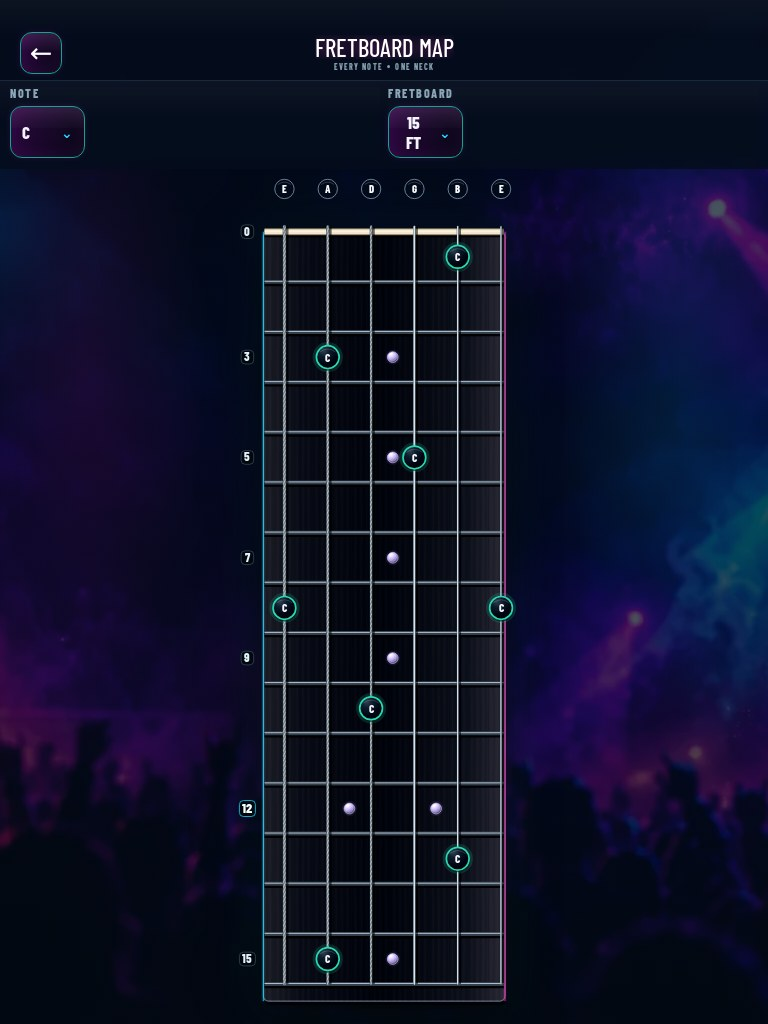
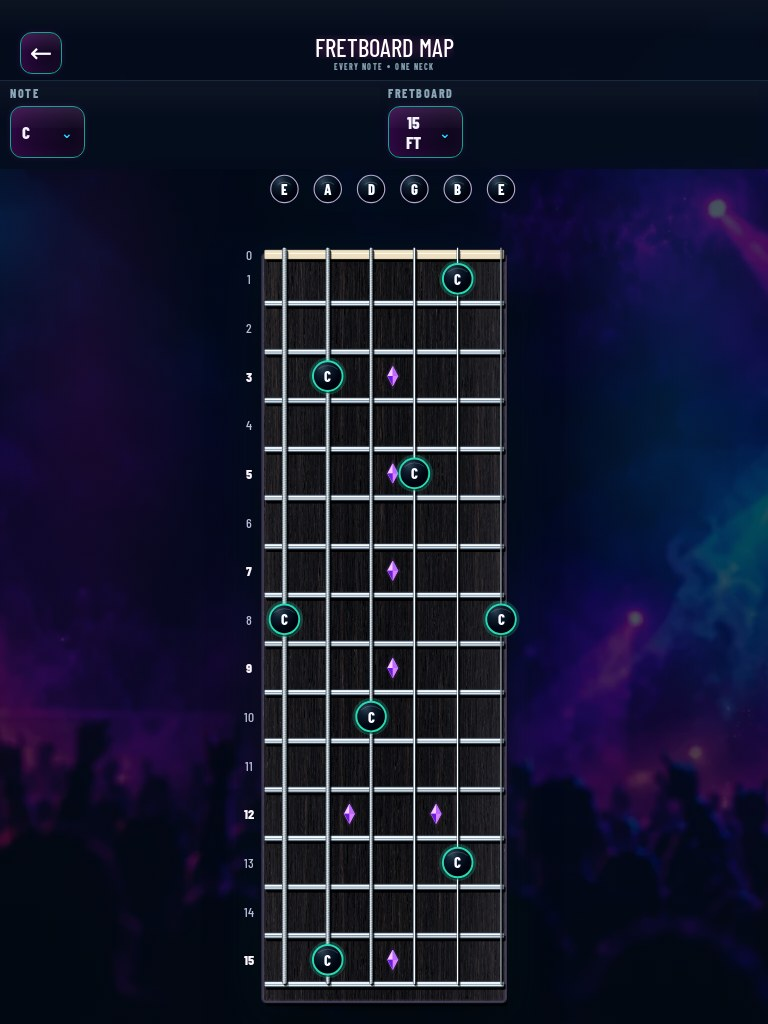
Refine tactile ebony neck, raised metalwork and violet diamonds

Changed region(s): [[0.3125, 0.1562, 0.6875, 0.9688]]

diff --git a/web/core/fretboard-appearance.js b/web/core/fretboard-appearance.js
@@ -11,66 +11,71 @@
     function defs(svg,prefix,isP){
       const node=svgEl('defs');
       gradient(node,prefix+'Wood',[['0%','#25262e'],['15%','#12151e'],['48%','#080b12'],['85%','#161922'],['100%','#30303b']],false,isP);
+      gradient(node,prefix+'StringMetal',[['0%','#3d4653'],['18%','#899ca9'],['38%','#f5ffff'],['49%','#ffffff'],['65%','#bacbd2'],['82%','#637582'],['100%','#242c36']],false,isP);
       gradient(node,prefix+'Steel',[['0%','#303846'],['18%','#b9cad6'],['35%','#fff'],['51%','#8495a6'],['75%','#dbe9ef'],['100%','#384253']],false,!isP);
       gradient(node,prefix+'Inlay',[['0%','#fff'],['25%','#e0d7ff'],['55%','#b4a4e0'],['80%','#736891'],['100%','#352f49']],true);
       gradient(node,prefix+'NoteGlass',[['0%','#334655'],['30%','#172331'],['70%','#080e19'],['100%','#03070e']],true);
-      const wound=svgEl('pattern',{id:prefix+'Wound',width:4,height:4,patternUnits:'userSpaceOnUse',patternTransform:isP?'rotate(28)':'rotate(-62)'});
+      const wound=svgEl('pattern',{id:prefix+'Wound',width:4,height:4,patternUnits:'userSpaceOnUse',patternTransform:isP?'rotate(75)':'rotate(-15)'});
       wound.append(svgEl('rect',{width:4,height:4,fill:'#78838b'}),svgEl('path',{d:'M 0 0 V 4',stroke:'#ebf4f8','stroke-width':1.2}),svgEl('path',{d:'M 2.5 0 V 4',stroke:'#424b52','stroke-width':.7}));node.append(wound);
-      // Tiled vector grain replaces full-board turbulence and per-string blur filters.
-      const grain=svgEl('pattern',{id:prefix+'Grain',width:isP?34:180,height:isP?180:34,patternUnits:'userSpaceOnUse'});
-      for(let i=0;i<7;i++){
-        const p=i*5;
-        grain.append(svgEl('path',{d:isP?`M ${p} 0 Q ${p+2} 70 ${p} 180`:`M 0 ${p} Q 70 ${p+2} 180 ${p}`,fill:'none',stroke:i%2?'#b9a4ad':'#000','stroke-width':i%2?.55:1,opacity:i%2?.09:.26}));
-      }node.append(grain);svg.append(node);svg.dataset.neckPrefix=prefix;
+      svg.append(node);svg.dataset.neckPrefix=prefix;
     }
     function surface(svg,isP,W,H,prefix){
       defs(svg,prefix,isP);
-      const neck=isP?{x:48,y:110,width:W-96,height:H-150,rx:9}:{x:90,y:34,width:W-128,height:H-70,rx:9};
-      svg.append(svgEl('rect',{...neck,x:neck.x+3,y:neck.y+7,fill:'#000',opacity:.6}));
-      svg.append(svgEl('rect',{...neck,fill:`url(#${prefix}Wood)`,stroke:'#697080','stroke-width':2}));
-      svg.append(svgEl('rect',{...neck,fill:`url(#${prefix}Grain)`}));
-      // The rails stay parallel in both orientations.
-      const a=isP?{x1:neck.x,y1:neck.y,x2:neck.x,y2:neck.y+neck.height}:{x1:neck.x,y1:neck.y,x2:neck.x+neck.width,y2:neck.y};
-      const b=isP?{x1:neck.x+neck.width,y1:neck.y,x2:neck.x+neck.width,y2:neck.y+neck.height}:{x1:neck.x,y1:neck.y+neck.height,x2:neck.x+neck.width,y2:neck.y+neck.height};
-      [ [a,'#27d7ff'],[b,'#ff3ec9'] ].forEach(([edge,color])=>{
-        svg.append(svgEl('line',{...edge,stroke:color,'stroke-width':7,opacity:.09}));
-        svg.append(svgEl('line',{...edge,stroke:color,'stroke-width':1.7,opacity:.8}));
-      });
+      const neck=isP?{x:48,y:150,width:W-96,height:H-190,rx:5}:{x:150,y:60,width:W-188,height:H-92,rx:5};
+      svg.append(svgEl('rect',{...neck,x:neck.x+4,y:neck.y+9,fill:'#000',opacity:.7}));
+      svg.append(svgEl('rect',{...neck,fill:`url(#${prefix}Wood)`,stroke:'#3e3a4e','stroke-width':7}));
+      const texture=svgEl('image',{href:'./assets/fretboard/ebony.webp',x:0,y:0,width:isP?neck.height:neck.width,height:isP?neck.width:neck.height,preserveAspectRatio:'none',opacity:.72,transform:isP?`translate(${neck.x+neck.width} ${neck.y}) rotate(90)`:`translate(${neck.x} ${neck.y})`,'data-neck-texture':'ebony'});
+      svg.append(texture);
+      svg.append(svgEl('rect',{...neck,fill:`url(#${prefix}Wood)`,opacity:.22}));
+      svg.append(svgEl('rect',{...neck,fill:'none',stroke:'#9b93b7','stroke-width':1,opacity:.42}));
     }
     function fret(svg,isP,p,W,H,isNut,prefix){
-      const line=isP?{x1:50,x2:W-50,y1:p,y2:p}:{y1:36,y2:H-38,x1:p,x2:p};
-      const shadow=isP?{...line,y1:p+3,y2:p+3}:{...line,x1:p+3,x2:p+3};
-      svg.append(svgEl('line',{...shadow,stroke:'#000','stroke-width':isNut?13:9,opacity:.75}));
-      svg.append(svgEl('line',{...line,stroke:isNut?'#807765':'#374350','stroke-width':isNut?12:7}));
-      svg.append(svgEl('line',{...line,stroke:isNut?'#e9dfc9':`url(#${prefix}Steel)`,'stroke-width':isNut?9:5}));
-      const crown=isP?{...line,y1:p-1,y2:p-1}:{...line,x1:p-1,x2:p-1};
-      svg.append(svgEl('line',{...crown,stroke:isNut?'#fff7e7':'#f1faff','stroke-width':1.25,opacity:.92}));
+      const thickness=isNut?16:10;
+      const body=isP?{x:50,y:p-thickness/2,width:W-100,height:thickness}:{x:p-thickness/2,y:62,width:thickness,height:H-96};
+      svg.append(svgEl('rect',{...body,x:body.x+3,y:body.y+5,rx:2,fill:'#000',opacity:.8}));
+      svg.append(svgEl('rect',{...body,rx:2,fill:isNut?'#e4d8bf':`url(#${prefix}Steel)`,stroke:isNut?'#9a8b71':'#46515e','stroke-width':.8}));
+      const crown=isP?{x1:52,x2:W-52,y1:p-2,y2:p-2}:{x1:p-2,x2:p-2,y1:64,y2:H-36};
+      svg.append(svgEl('line',{...crown,stroke:isNut?'#fff9e8':'#fff','stroke-width':1.5,opacity:.95}));
     }
     function string(svg,isP,p,start,end,s,prefix){
-      const gauge=4.8-3.3*s/Math.max(1,stringCount-1),wound=s<(instrument.woundStrings||0);
-      const line=isP?{x1:p,x2:p,y1:start-9,y2:end}:{x1:start-9,x2:end,y1:p,y2:p};
-      const shifted=offset=>isP?{...line,x1:p+offset,x2:p+offset}:{...line,y1:p+offset,y2:p+offset};
-      svg.append(svgEl('line',{...shifted(3.2),stroke:'#000','stroke-width':gauge+3,opacity:.55}));
-      svg.append(svgEl('line',{...line,stroke:'#35404b','stroke-width':gauge+1.2,'stroke-linecap':'round'}));
-      svg.append(svgEl('line',{...line,stroke:wound?`url(#${prefix}Wound)`:'#c1d2dd','stroke-width':gauge,'stroke-linecap':'round'}));
-      svg.append(svgEl('line',{...shifted(-.6),stroke:'#fff','stroke-width':wound?.65:.8,opacity:wound?.7:.95}));
+      const gauge=8-6*s/Math.max(1,stringCount-1),wound=s<(instrument.woundStrings||0);
+      const body=isP?{x:p-gauge/2,y:start-12,width:gauge,height:end-start+12}:{x:start-12,y:p-gauge/2,width:end-start+12,height:gauge};
+      // Broad penumbra, tight contact shadow, then a cylindrical metal body ABOVE the frets.
+      svg.append(svgEl('rect',{...body,x:body.x+4,y:body.y+6,rx:gauge/2,fill:'#000',opacity:.3}));
+      svg.append(svgEl('rect',{...body,x:body.x+2,y:body.y+3,rx:gauge/2,fill:'#000',opacity:.8}));
+      svg.append(svgEl('rect',{...body,rx:gauge/2,fill:`url(#${prefix}StringMetal)`,stroke:'#57616d','stroke-width':.5,'data-string-gauge':gauge}));
+      if(wound)svg.append(svgEl('rect',{...body,rx:gauge/2,fill:`url(#${prefix}Wound)`,opacity:.52}));
+      const highlight=isP?{x1:p-gauge*.16,x2:p-gauge*.16,y1:start-12,y2:end}:{x1:start-12,x2:end,y1:p-gauge*.16,y2:p-gauge*.16};
+      svg.append(svgEl('line',{...highlight,stroke:'#fff','stroke-width':wound?1:.85,opacity:.9}));
     }
+    function inlay(svg,{x,y,fret}){
+      const w=9,h=17;
+      const points=`${x},${y-h} ${x+w},${y} ${x},${y+h} ${x-w},${y}`;
+      const group=svgEl('g',{'data-inlay-fret':fret,'pointer-events':'none'});
+      group.append(svgEl('polygon',{points,fill:'#c559ff',stroke:'#b454ff','stroke-width':7,opacity:.12}));
+      group.append(svgEl('polygon',{points,fill:'#9250f5',stroke:'#e1acff','stroke-width':1.1}));
+      group.append(svgEl('path',{d:`M ${x} ${y-h} L ${x} ${y} L ${x-w} ${y} Z`,fill:'#f0c4ff'}));
+      group.append(svgEl('path',{d:`M ${x} ${y-h} L ${x+w} ${y} L ${x} ${y} Z`,fill:'#b36bff'}));
+      group.append(svgEl('path',{d:`M ${x-w} ${y} L ${x} ${y} L ${x} ${y+h} Z`,fill:'#6a24cd'}));
+      group.append(svgEl('path',{d:`M ${x} ${y} L ${x+w} ${y} L ${x} ${y+h} Z`,fill:'#d581ff'}));svg.append(group);
+    }
+
     function note(svg,{x,y,isP,color,label,target=false,attrs={}}){
-      const r=isP?20:14,prefix=svg.dataset.neckPrefix;
+      const r=isP?26:24,prefix=svg.dataset.neckPrefix;
       const group=svgEl('g',{class:'neck-note','data-note-color':color,...attrs});
       group.append(svgEl('circle',{cx:x+1,cy:y+3,r:r+1,fill:'#000',opacity:.65}));
-      group.append(svgEl('circle',{cx:x,cy:y,r:r+4,fill:'none',stroke:color,'stroke-width':5,opacity:target?.16:.08}));
-      group.append(svgEl('circle',{cx:x,cy:y,r,fill:`url(#${prefix}NoteGlass)`,stroke:color,'stroke-width':target?3:2.3}));
+      group.append(svgEl('circle',{cx:x,cy:y,r:r+4,fill:'none',stroke:color,'stroke-width':5,opacity:target?.22:.12}));
+      group.append(svgEl('circle',{cx:x,cy:y,r,fill:`url(#${prefix}NoteGlass)`,stroke:color,'stroke-width':target?3.4:2.8}));
       group.append(svgEl('path',{d:`M ${x-r*.68} ${y-r*.45} Q ${x} ${y-r*.98} ${x+r*.68} ${y-r*.45}`,fill:'none',stroke:'#fff','stroke-width':.9,opacity:.32,'pointer-events':'none'}));
-      group.append(svgEl('text',{x,y,fill:'#f4f3ff','font-size':isP?(label.length>1?17:20):(label.length>1?11:14),'font-weight':800,'text-anchor':'middle','dominant-baseline':'central','pointer-events':'none'},label));svg.append(group);
+      group.append(svgEl('text',{x,y,fill:'#f4f3ff','font-size':isP?(label.length>1?21:26):(label.length>1?18:24),'font-weight':800,'text-anchor':'middle','dominant-baseline':'central','pointer-events':'none'},label));svg.append(group);
     }
     function tuning(svg,{x,y,label}){
       const group=svgEl('g',{class:'neck-tuning','pointer-events':'none'});
-      group.append(svgEl('circle',{cx:x,cy:y,r:17,fill:'#0b1320',stroke:'#91a2bb','stroke-width':1.3}));
+      group.append(svgEl('circle',{cx:x,cy:y,r:24,fill:`url(#${svg.dataset.neckPrefix}NoteGlass)`,stroke:'#b1a5c9','stroke-width':2}));
       group.append(svgEl('path',{d:`M ${x-11} ${y-8} Q ${x} ${y-16} ${x+11} ${y-8}`,fill:'none',stroke:'#fff','stroke-width':.8,opacity:.4}));
-      group.append(svgEl('text',{x,y,fill:'#f4f3ff','font-size':19,'font-weight':800,'text-anchor':'middle','dominant-baseline':'central'},label));svg.append(group);
+      group.append(svgEl('text',{x,y,fill:'#f4f3ff','font-size':26,'font-weight':800,'text-anchor':'middle','dominant-baseline':'central'},label));svg.append(group);
     }
-    return {surface,fret,string,note,tuning};
+    return {surface,fret,string,note,tuning,inlay};
   }
   window.FretboardAppearance={create,DEGREE_COLORS,SCALE_COLORS};
 })();

diff --git a/web/index.html b/web/index.html
@@ -39,9 +39,9 @@
   <link rel="icon" type="image/png" sizes="192x192">
   <link rel="icon" type="image/png" sizes="512x512">
   <link rel="apple-touch-icon" sizes="180x180">
-  <link rel="stylesheet" href="./styles.css?v=10.9.0">
-  <link rel="stylesheet" href="./home.css?v=10.9.0">
-  <link rel="stylesheet" href="./theme.css?v=10.9.0">
+  <link rel="stylesheet" href="./styles.css?v=10.9.1">
+  <link rel="stylesheet" href="./home.css?v=10.9.1">
+  <link rel="stylesheet" href="./theme.css?v=10.9.1">
   <script id="productStructuredData" type="application/ld+json">{"@context":"https://schema.org","@type":["VideoGame","WebApplication"],"name":"Fretboard Hero","description":"Interactive fretboard trainer."}</script>
 </head>
 <body data-loading="true" aria-busy="true">
@@ -63,9 +63,9 @@
             <button class="hero-btn circle-card" data-go="circle"><span class="hero-icon"><svg viewBox="0 0 64 64" aria-hidden="true"><use href="./assets/home/icons.svg#circle"/></svg></span><span class="home-card-copy"><strong>CIRCLE OF FIFTHS</strong><small>Visualize & practice</small></span><span class="home-chevron" aria-hidden="true">›</span></button>
           </nav>
           <nav class="home-instruments" aria-label="Choose instrument">
-            <button type="button" data-home-instrument="guitar" aria-pressed="false"><svg class="instrument-art" viewBox="71.5 11.3333 190 253.3333" aria-hidden="true" preserveAspectRatio="xMidYMid meet"><image href="./assets/home/instruments.webp?v=10.9.0" width="768" height="256"/></svg><span>Guitar</span></button>
-            <button type="button" data-home-instrument="bass-4" aria-pressed="false"><svg class="instrument-art" viewBox="301.5 10.3333 190 253.3333" aria-hidden="true" preserveAspectRatio="xMidYMid meet"><image href="./assets/home/instruments.webp?v=10.9.0" width="768" height="256"/></svg><span>Bass</span></button>
-            <button type="button" data-home-instrument="ukulele" aria-pressed="false"><svg class="instrument-art" viewBox="510 16.8333 190 253.3333" aria-hidden="true" preserveAspectRatio="xMidYMid meet"><image href="./assets/home/instruments.webp?v=10.9.0" width="768" height="256"/></svg><span>Ukulele</span></button>
+            <button type="button" data-home-instrument="guitar" aria-pressed="false"><svg class="instrument-art" viewBox="71.5 11.3333 190 253.3333" aria-hidden="true" preserveAspectRatio="xMidYMid meet"><image href="./assets/home/instruments.webp?v=10.9.1" width="768" height="256"/></svg><span>Guitar</span></button>
+            <button type="button" data-home-instrument="bass-4" aria-pressed="false"><svg class="instrument-art" viewBox="301.5 10.3333 190 253.3333" aria-hidden="true" preserveAspectRatio="xMidYMid meet"><image href="./assets/home/instruments.webp?v=10.9.1" width="768" height="256"/></svg><span>Bass</span></button>
+            <button type="button" data-home-instrument="ukulele" aria-pressed="false"><svg class="instrument-art" viewBox="510 16.8333 190 253.3333" aria-hidden="true" preserveAspectRatio="xMidYMid meet"><image href="./assets/home/instruments.webp?v=10.9.1" width="768" height="256"/></svg><span>Ukulele</span></button>
           </nav>
         </div>
       </div>
@@ -205,7 +205,7 @@
     </div>
   </div>
 
-  <script src="./bootstrap.js?v=10.9.0" defer></script>
+  <script src="./bootstrap.js?v=10.9.1" defer></script>
   <script>if('serviceWorker' in navigator){window.addEventListener('load',()=>navigator.serviceWorker.register('./sw.js').catch(()=>{}));}</script>
 
 </body>

diff --git a/web/bootstrap.js b/web/bootstrap.js
@@ -8,12 +8,12 @@
     artwork.setAttribute('href','./assets/home/product-wordmarks.webp');
   });
   const CATALOG={
-    'guitar':{instrumentKey:'guitar',instrument:'./instruments/guitar.js?v=10.9.0',productKey:'guitar',product:'./products/guitar-fretboard-hero.js?v=10.9.0'},
-    'bass-4':{instrumentKey:'bass4',instrument:'./instruments/bass-4.js?v=10.9.0',productKey:'bass',product:'./products/bass-fretboard-hero.js?v=10.9.0'},
-    'ukulele':{instrumentKey:'ukulele',instrument:'./instruments/ukulele.js?v=10.9.0',productKey:'ukulele',product:'./products/ukulele-fretboard-hero.js?v=10.9.0'},
+    'guitar':{instrumentKey:'guitar',instrument:'./instruments/guitar.js?v=10.9.1',productKey:'guitar',product:'./products/guitar-fretboard-hero.js?v=10.9.1'},
+    'bass-4':{instrumentKey:'bass4',instrument:'./instruments/bass-4.js?v=10.9.1',productKey:'bass',product:'./products/bass-fretboard-hero.js?v=10.9.1'},
+    'ukulele':{instrumentKey:'ukulele',instrument:'./instruments/ukulele.js?v=10.9.1',productKey:'ukulele',product:'./products/ukulele-fretboard-hero.js?v=10.9.1'},
   };
-  const CORE=['music-theory','circle-of-fifths','circle-renderer','tuning','fretboard-engine','fretboard-layout','fretboard-appearance','fretboard-map','pentatonic-renderer','triad-engine','arpeggio-engine','chord-engine','quiz-engine','controls','mode-registry','product-shell'].map(n=>`./core/${n}.js?v=10.9.0`);
-  const MODES=['pentatonic','triads','chords','arpeggios'].map(n=>`./modes/${n}.js?v=10.9.0`);
+  const CORE=['music-theory','circle-of-fifths','circle-renderer','tuning','fretboard-engine','fretboard-layout','fretboard-appearance','fretboard-map','pentatonic-renderer','triad-engine','arpeggio-engine','chord-engine','quiz-engine','controls','mode-registry','product-shell'].map(n=>`./core/${n}.js?v=10.9.1`);
+  const MODES=['pentatonic','triads','chords','arpeggios'].map(n=>`./modes/${n}.js?v=10.9.1`);
   const load=src=>new Promise((resolve,reject)=>{const s=document.createElement('script');s.async=false;s.src=src;s.onload=resolve;s.onerror=()=>reject(new Error(`Unable to load ${src}`));document.head.appendChild(s);});
   const fail=err=>{document.body.setAttribute('aria-busy','false');console.error(err);document.body.innerHTML=`<main style="min-height:100vh;display:grid;place-items:center;background:#05080b;color:#f8fbff;font-family:system-ui;padding:24px"><div><h1 style="color:#ff3ec9">CONFIGURATION ERROR</h1><p>${String(err.message||err)}</p><p>Check <code>site.config.json</code> and README.md.</p></div></main>`;};
   (async()=>{
@@ -37,8 +37,8 @@
       window.FRETBOARD_ACTIVE_PRODUCT={...product,instrument:entry.instrumentKey};window.FRETBOARD_ACTIVE_INSTRUMENT=instrument;
       document.documentElement.dataset.instrument=config.instrument;
       window.ProductShell.apply(product,instrument);
-      await load('./home.js?v=10.9.0');
-      await load('./app.js?v=10.9.0');
+      await load('./home.js?v=10.9.1');
+      await load('./app.js?v=10.9.1');
       if(!await artworkReady){
         logo.setAttribute('hidden','');
         const fallback=document.createElement('span');

diff --git a/web/app.js b/web/app.js
@@ -210,14 +210,10 @@
     for(let f=0;f<=maxFret;f++){
       const p=fretPos(f),isNut=f===0&&fretOffset===0;premiumFret(svg,isP,p,W,H,isNut,prefix);
       const actualFret=fretOffset===0?f:(fretOffset+f-1);
-      if(fretOffset===0?(f===0||[3,5,7,9,12,15,17,19,21].includes(f)):(f>0&&[3,5,7,9,12,15,17,19,21].includes(actualFret))){
-        const lp=fretOffset===0&&f===0?fretPos(0):(fretPos(Math.max(0,f-1))+fretPos(f))/2;
-        const isOctave=actualFret===12;
-        const label=String(actualFret),fontSize=isP?(isOctave?24:22):(isOctave?21:19);
-        const labelX=isP?20:lp,labelY=isP?lp:(H-16);
-        const padX=label.length>1?14:11,padY=isOctave?14:12;
-        svg.append(svgEl('rect',{x:labelX-padX,y:labelY-padY,width:padX*2,height:padY*2,rx:7,fill:'#071016',stroke:isOctave?'#27d7ff':'#6d8290','stroke-width':isOctave?1.4:.8,opacity:.94}));
-        svg.append(svgEl('text',{x:labelX,y:labelY+1,fill:isOctave?'#f8fbff':'#dce9f0','font-size':fontSize,'font-weight':1000,'text-anchor':'middle','dominant-baseline':'middle'},label));
+      if(fretOffset===0||f>0){
+        const lp=f===0?fretPos(0):(fretPos(f-1)+fretPos(f))/2;
+        const landmark=[3,5,7,9,12,15,17,19,21].includes(actualFret);
+        svg.append(svgEl('text',{x:isP?22:lp,y:isP?lp:42,fill:landmark?'#f5edff':'#b5b8cf','font-size':isP?24:24,'font-weight':landmark?800:500,'text-anchor':'middle','dominant-baseline':'central','data-fret-label':actualFret},String(actualFret)));
       }
     }
     // Standard markers: singles are centred between D/G. At fret 12, the two markers
@@ -227,12 +223,7 @@
     const singleInlayCenter=centerBetween(middleLo,middleHi);
     const drawInlay=(f,cross)=>{
       const p=(fretPos(f-1)+fretPos(f))/2;
-      const base=isP?{cx:cross,cy:p}:{cx:p,cy:cross};
-      const marker=svgEl('g',{'data-inlay-fret':fretOffset===0?f:fretOffset+f-1,'pointer-events':'none'});
-      marker.append(svgEl('circle',{...base,r:13,fill:'#b495ff',opacity:.1}));
-      marker.append(svgEl('circle',{...base,r:9.5,fill:`url(#${prefix}Inlay)`,stroke:'#c9bdff','stroke-width':1.1}));
-      marker.append(svgEl('circle',{...base,r:6.2,fill:'none',stroke:'#fff','stroke-width':.65,opacity:.5}));
-      svg.append(marker);
+      appearance.inlay(svg,{x:isP?cross:p,y:isP?p:cross,fret:fretOffset===0?f:fretOffset+f-1});
     };
     [3,5,7,9,12,15,17,19,21].filter(actual=>actual>=fretOffset&&actual<=(fretOffset===0?maxFret:fretOffset+maxFret-1)).forEach(actual=>{
       const f=fretOffset===0?actual:(actual-fretOffset+1);
@@ -246,7 +237,7 @@
     tuning.forEach((st,s)=>{
       const p=visualStringPos(s);
       premiumString(svg,isP,p,fretStart,fretEnd,s,prefix);
-      appearance.tuning(svg,{x:isP?p:24,y:isP?35:p,label:st.name});
+      appearance.tuning(svg,{x:isP?p:35,y:isP?35:p,label:st.name});
     });
     return {svg,isP,W,H,fretStart,fretEnd,stringStart,stringEnd,fretPos,stringPos,visualStringPos,maxFret};
   }

diff --git a/web/core/fretboard-layout.js b/web/core/fretboard-layout.js
@@ -1,12 +1,12 @@
 (() => {
   'use strict';
   function create({portrait,stringCount,maxFret,width,height}){
-    const W=width??(portrait?520:1500),H=height??(portrait?1500:430);
-    const fretStart=portrait?110:90,fretEnd=portrait?H-70:W-40,stringStart=portrait?85:70,stringEnd=portrait?W-55:H-48;
+    const W=width??(portrait?520:1500),H=height??(portrait?1500:500);
+    const fretStart=150,fretEnd=portrait?H-70:W-40,stringStart=portrait?85:88,stringEnd=portrait?W-55:H-48;
     const fretPos=f=>fretStart+(fretEnd-fretStart)*(f/maxFret);
     const stringPos=s=>stringStart+(stringEnd-stringStart)*(s/Math.max(1,stringCount-1));
     return {isP:portrait,W,H,fretStart,fretEnd,stringStart,stringEnd,fretPos,stringPos,maxFret};
   }
-  const fretCenter=(fret,fretPos)=>fret===0?fretPos(0)-34:(fretPos(fret-1)+fretPos(fret))/2;
+  const fretCenter=(fret,fretPos)=>fret===0?fretPos(0)-54:(fretPos(fret-1)+fretPos(fret))/2;
   window.FretboardLayout={create,fretCenter};
 })();

diff --git a/docs/TECHNICAL.md b/docs/TECHNICAL.md
@@ -361,10 +361,12 @@ The product wordmarks share one 2700×550 WebP sprite, displayed through indepen
 
 ## Shared premium neck (V10.9.0)
 
-`core/fretboard-appearance.js` owns the ebony surface, chrome frets, wound/plain strings, pearlescent inlays' gradient, open-string tuning badges and dark glass note badges. Practice, Map, Quiz and Circle share the same structural neck; Practice, Map and Circle use the same note renderer. Geometry stays orthographic and follows the existing portrait/landscape layout. The 12th-fret pair is separated symmetrically for four- and six-string profiles. Open notes are centered 34 viewBox units before the nut, separately from the tuning labels.
+`core/fretboard-appearance.js` owns the ebony surface, chrome frets, wound/plain strings, faceted violet diamond inlays, open-string tuning badges and dark glass note badges. Practice, Map, Quiz and Circle share the same structural neck; Practice, Map and Circle use the same note renderer. Geometry stays orthographic and follows the existing portrait/landscape layout. The 12th-fret pair is separated symmetrically for four- and six-string profiles. Open notes are centered 54 viewBox units before the nut, separately from the tuning labels.
 
 Degree colors and Circle scale colors have one source in `FretboardAppearance`. Practice legends display actual note names and use the exact corresponding note outline color; Circle scale pills and Map pitch filters follow their neck palette. Position bands remain available but are thinner and translucent so the strings and notes stay visible. Legacy legend color rules have been removed.
 
-The neck uses tiled vector grain, gradients and explicit contact shadows instead of turbulence and repeated blur filters. No raster neck assets, animation loop or additional dependencies are introduced. Existing Quiz hit zones and feedback remain intact.
+The neck uses one 83 KB photorealistic ebony WebP texture, gradients and explicit contact shadows instead of turbulence and repeated blur filters. Metal parts, strings, faceted inlays and notes remain SVG geometry. No animation loop or additional dependencies are introduced. Existing Quiz hit zones and feedback remain intact.
 
 Validation: Chromium checked Guitar/Bass/Ukulele at 1440×900, 900×1440, 1024×768, 768×1024, 844×390 and 393×873; correct C pitch locations, 3/5/7/9/double-12/15 markers, exact Practice note/legend colors and labels across all registered modes in major/minor, degree filtering and Circle scale colors. Three-product navigation and Quiz rendering, JavaScript syntax checks, Capacitor bridge tests and diff checks passed. Browser viewport checks do not replace physical iPad/iPhone testing.
+
+V10.9.1: all fret numbers are shown, with 3/5/7/9/12/15/17/19/21 emphasized. Faceted violet diamonds replace pearls; cyan/magenta rails are removed. Raised fret bodies use rectangles so their cross-section gradients have a nonzero bounding box. Cylindrical string gauges range from 8 to 2 viewBox units, with two offset shadow layers and wound-wire patterns. Note radii are 24 landscape / 26 portrait and tuning badges 24. The landscape neck is taller for more breathing room. Updated checks verify complete fret numbering, diamond geometry, string-gauge range and texture use across all three profiles and six viewports.

diff --git a/web/assets/fretboard/ASSETS.md b/web/assets/fretboard/ASSETS.md
@@ -1,0 +1,5 @@
+# Fretboard material
+
+`ebony.webp`: 768×768, optimized photorealistic ebony material generated with the built-in imagegen tool. It contains wood only; strings, frets, diamonds, labels and notes remain calculated SVG geometry. Horizontal grain is rotated in portrait.
+
+Prompt: orthographic macro photograph of dark satin-oiled black ebony; fine horizontal organic fibers and pores, neutral even light, no frets, strings, inlays, text, borders, perspective or painted neon.
